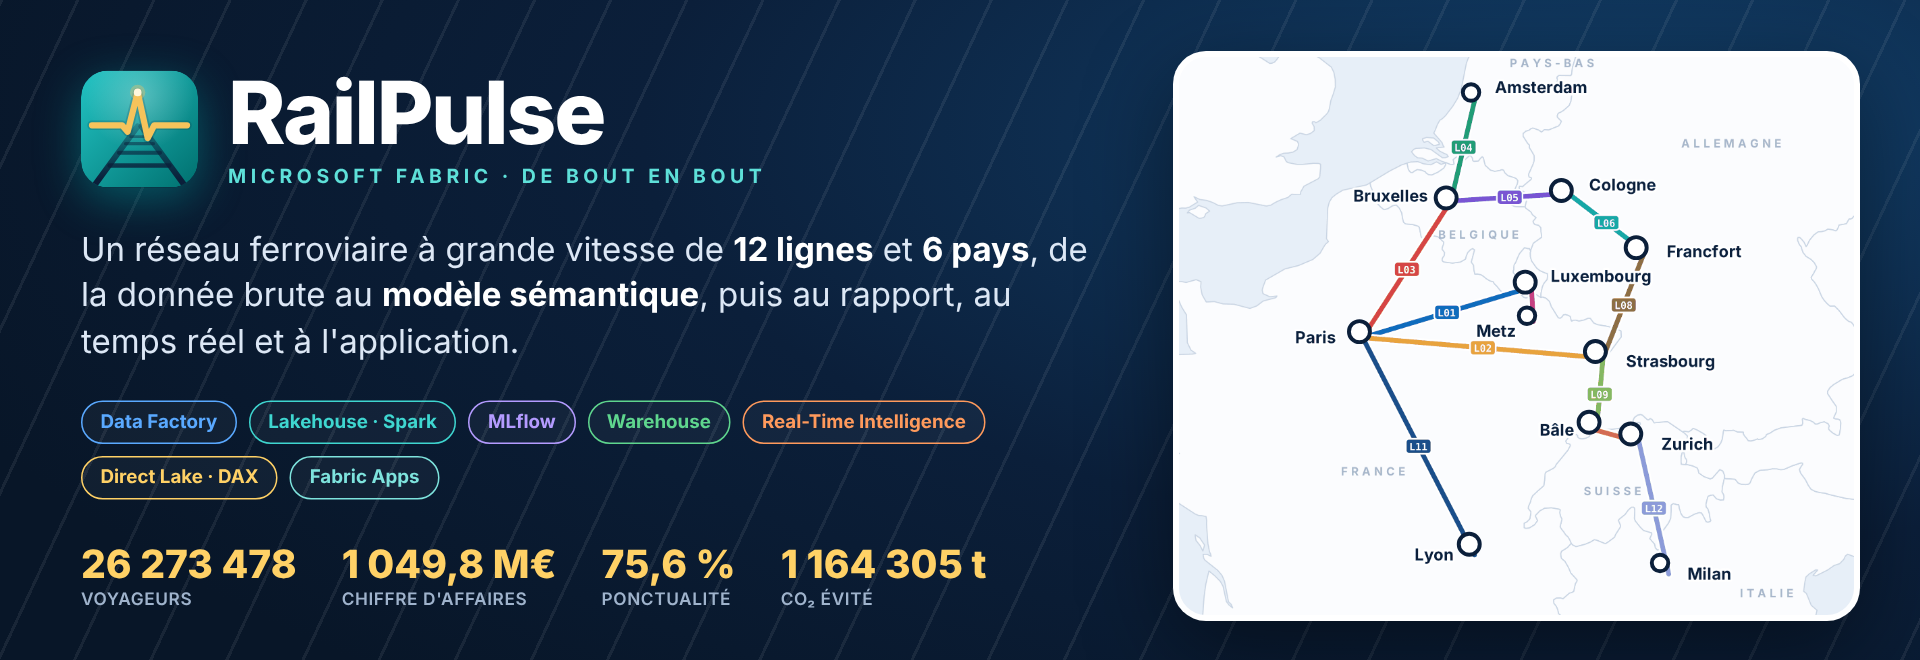
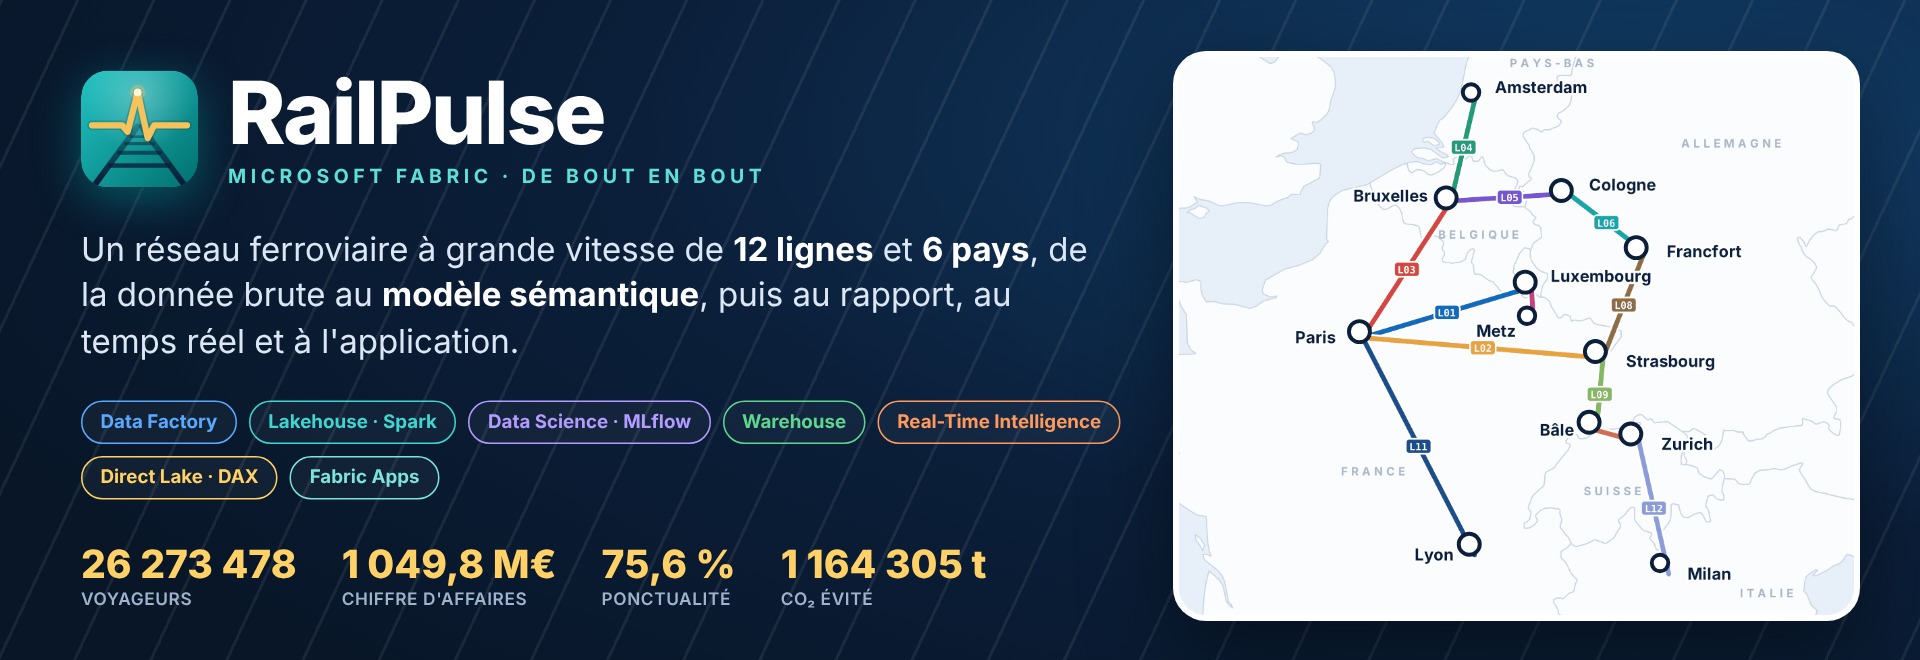
Mise en avant de la partie Data Science

Changed region(s): [[0.25, 0.6061, 0.5938, 0.697]]

diff --git a/README.md b/README.md
@@ -6,6 +6,7 @@
 
 <p align="center">
   <b>De la donnée brute au modèle sémantique, puis au rapport Power BI, au temps réel et à l'application Fabric Apps.</b><br>
+  Data Engineering · Data Science · Data Warehouse · Real-Time Intelligence · Power BI · Fabric Apps.<br>
   Un seul espace de travail. Toutes les charges de travail de Fabric. Un guide public pour tout reconstruire.
 </p>
 
@@ -16,6 +17,7 @@
   <img alt="Delta Lake" src="https://img.shields.io/badge/Delta%20Lake-00ADD4?style=for-the-badge&logo=delta&logoColor=white">
   <img alt="T-SQL" src="https://img.shields.io/badge/T--SQL-2E8B57?style=for-the-badge&logo=microsoftsqlserver&logoColor=white">
   <img alt="KQL" src="https://img.shields.io/badge/KQL-E8590C?style=for-the-badge&logo=kusto&logoColor=white">
+  <img alt="Data Science" src="https://img.shields.io/badge/Data%20Science-7B4FE0?style=for-the-badge&logo=scikitlearn&logoColor=white">
   <img alt="MLflow" src="https://img.shields.io/badge/MLflow-0194E2?style=for-the-badge&logo=mlflow&logoColor=white">
   <img alt="DAX" src="https://img.shields.io/badge/DAX-C99200?style=for-the-badge">
   <img alt="React" src="https://img.shields.io/badge/Fabric%20Apps-React-0B7A75?style=for-the-badge&logo=react&logoColor=white">
@@ -37,9 +39,9 @@
 
 **RailPulse** est un opérateur ferroviaire européen fictif : **12 lignes à grande vitesse**, **12 gares**, **6 pays**, de Paris à Amsterdam, Zurich et Milan. Ce dépôt contient toute sa plateforme de données, construite dans un seul espace de travail Microsoft Fabric, sur une capacité d'essai.
 
-Deux voies cohabitent et se rejoignent dans OneLake :
+Ingénierie des données, **science des données**, entrepôt, temps réel et décisionnel y travaillent sur une seule copie des données. Deux voies cohabitent et se rejoignent dans OneLake :
 
-- **La voie batch** raconte les douze derniers mois. Un pipeline maître enchaîne simulation de la source, ingestion, contrôle qualité, machine learning et chargement d'un entrepôt en étoile, que lit un modèle sémantique Direct Lake.
+- **La voie batch** raconte les douze derniers mois. Un pipeline maître enchaîne simulation de la source, ingestion, contrôle qualité, **data science** (un modèle de machine learning qui prévoit les retards) et chargement d'un entrepôt en étoile, que lit un modèle sémantique Direct Lake.
 - **La voie temps réel** raconte le présent. Chaque train en circulation émet sa position toutes les trois secondes ; Eventstream, Eventhouse et KQL en font une salle de contrôle, et Activator prévient dès qu'un train dépasse 15 minutes de retard.
 
 ---
@@ -126,7 +128,7 @@ Chaque pastille numérotée renvoie à l'étape du guide qui construit le bloc.
 | Source | `NB_01_Source_Simulator` | simule 12 mois d'exploitation avec des défauts volontaires | 98 950 trains bruts |
 | 🥉 Bronze | `LH_RailPulse_Bronze` | fichiers bruts dans `Files/landing`, tables `bronze_*` chargées par Copy et Spark | 98 950 · 781 102 |
 | 🥈 Silver | `LH_RailPulse_Silver` | dédoublonnage, quarantaine, `MERGE` Delta, intégrité référentielle, V-Order, références via Dataflow Gen2 | 98 485 · 780 586 |
-| 🧪 ML | `NB_03` · `EXP_RailPulse_Delay` · `ML_RailPulse_Delay` | entraînement suivi par MLflow, modèle versionné, score `PREDICT` | 3 780 prévisions |
+| 🧪 Data Science | `NB_03` · `EXP_RailPulse_Delay` · `ML_RailPulse_Delay` | entraînement suivi par MLflow, modèle versionné, score `PREDICT` | 3 780 prévisions |
 | 🥇 Gold | `WH_RailPulse_Gold` | schéma en étoile par T-SQL inter-bases, sans copie, journal d'exécution | 4 dimensions · 3 faits |
 | 🧠 Sémantique | `SM_RailPulse` | Direct Lake, 9 tables, 10 relations, 50 mesures | aucune actualisation |
 | 📊 Usage | `RPT_RailPulse` · `RailPulse_Studio` | rapport de 6 pages et application web | lecture en direct |
@@ -180,9 +182,19 @@ Fonctions, requêtes du tableau de bord et définition complète : [`temps-reel/
 
 ---
 
-## 🤖 Machine learning
+## 🧪 Data Science : prévoir les retards des 14 prochains jours
 
-| Étape | Choix |
+La partie Data Science transforme douze mois d'historique en une **prévision opérationnelle** : chaque départ des deux semaines à venir reçoit un retard prévu et un niveau de risque, que lisent le rapport, l'application et l'exploitation. Tout le cycle de vie du modèle se fait dans Fabric, sans quitter l'espace de travail.
+
+| Étape du cycle | Ce qui est fait dans Fabric |
+|---|---|
+| 1 · Préparation | un jeu de caractéristiques commun à l'historique et à l'horaire futur, calculé en PySpark sur le lakehouse Silver |
+| 2 · Expérimentation | expérience **MLflow** `EXP_RailPulse_Delay` : paramètres, métriques et modèle journalisés à chaque exécution |
+| 3 · Évaluation | comparaison à une référence naïve (la médiane) sur une période de test jamais vue |
+| 4 · Enregistrement | modèle versionné `ML_RailPulse_Delay`, avec sa signature d'entrée |
+| 5 · Industrialisation | score par lots avec **`PREDICT`** (SynapseML) dans le pipeline, résultats écrits en Delta et métriques historisées dans `ml_model_metrics` |
+
+| Le modèle | Choix |
 |---|---|
 | Cible | retard à l'arrivée, en minutes |
 | Caractéristiques | heure de départ, jour, mois, pointe, distance, relation transfrontalière, météo la plus sévère aux deux gares, âge de la rame, remplissage |
@@ -190,7 +202,7 @@ Fonctions, requêtes du tableau de bord et définition complète : [`temps-reel/
 | Validation | découpage **temporel** : entraînement jusqu'à fin juillet 2026, test sur août et septembre |
 | Résultat | **MAE proche de 2,6 min contre 3,4 min** sans modèle, environ 22 % d'erreur en moins |
 | Mise en production | expérience MLflow `EXP_RailPulse_Delay`, modèle enregistré `ML_RailPulse_Delay`, score par lots avec `PREDICT` |
-| Sortie | niveau de risque FAIBLE, MOYEN ou ÉLEVÉ pour chacun des 3 780 départs des 14 prochains jours |
+| Sortie | niveau de risque FAIBLE (moins de 3 min), MOYEN (3 à 6 min) ou ÉLEVÉ (6 min et plus) pour chacun des 3 780 départs des 14 prochains jours : 402 sont à risque élevé |
 
 ---
 
